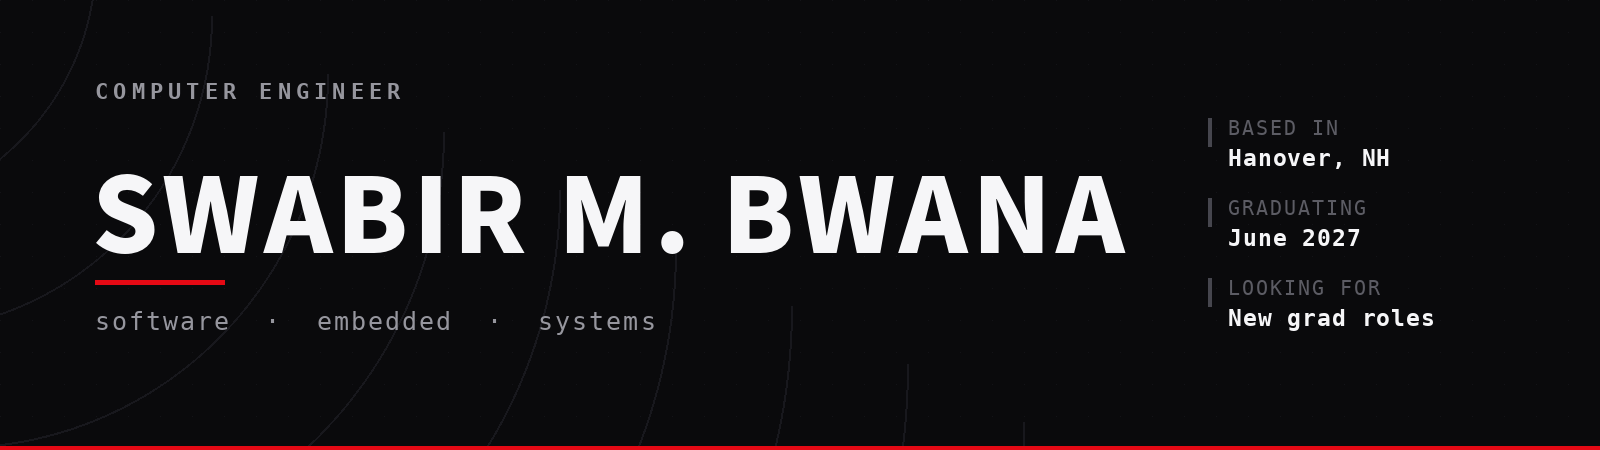
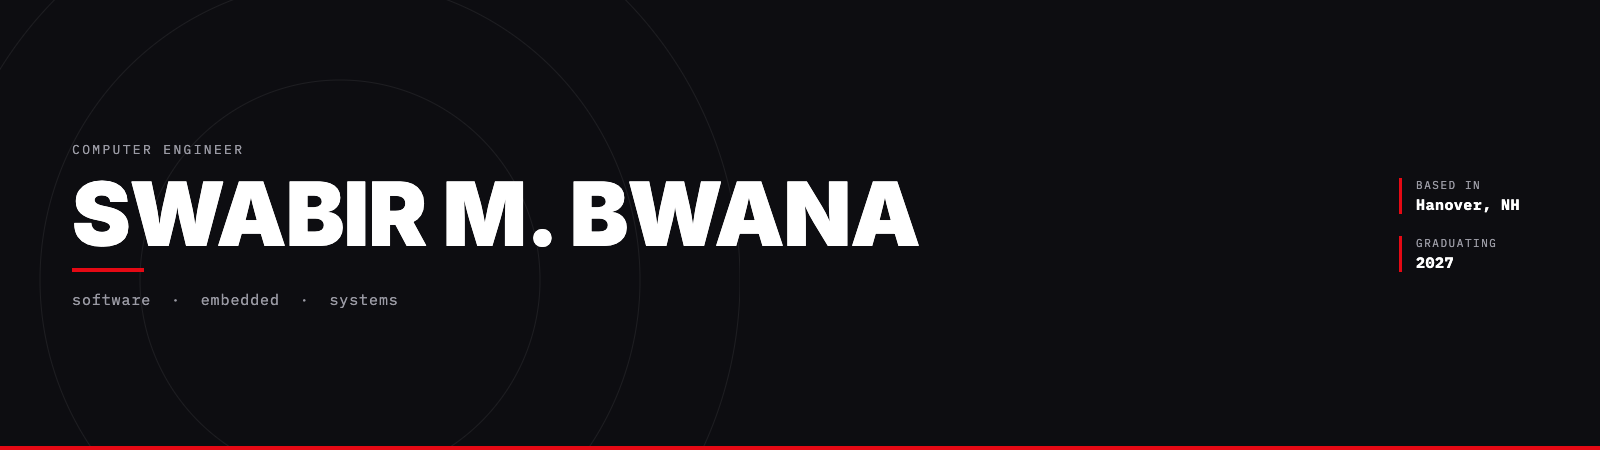
chore: update hero image and sync all repo links with portfolio
- hero.png: changed "June 2027" to "2027", removed "LOOKING FOR / New grad roles"
- SwipePlate: fix org from dartmouth-cs52-25S to Swabir001
- SwabFlix: add separate Street Food Atlas repo link
- FPGA accelerator: add W26-W9-LA repo link
- Bare-metal ARM/TinyML: add W26-W4-LA, W26-W7-LA, W26-W5-LA repo links

diff --git a/README.md b/README.md
@@ -27,7 +27,7 @@ Junior at Dartmouth, Engineering Sciences modified with Computer Science at the 
 
 <img src="https://raw.githubusercontent.com/Swabir001/Swabir001/main/assets/hdr-software.png" width="100%" alt="02 Software"/>
 
-### SwipePlate &nbsp;·&nbsp; campus food delivery &nbsp;·&nbsp; [repo](https://github.com/dartmouth-cs52/project-swipe-plate)
+### SwipePlate &nbsp;·&nbsp; campus food delivery &nbsp;·&nbsp; [repo](https://github.com/Swabir001/project-swipe-plate)
 
 Order from any of the four Dartmouth dining halls and have another student deliver it. I led a team of four from an empty repo to a deployed product in six weeks, and built both halves myself. It ran on the real campus dining API, not mock JSON.
 
@@ -106,7 +106,7 @@ Two backends on one foundation, aimed at different problems. Full CRUD for the b
 
 ---
 
-### SwabFlix and Street Food Atlas &nbsp;·&nbsp; frontend &nbsp;·&nbsp; [repo](https://github.com/Swabir001/swabflix)
+### SwabFlix and Street Food Atlas &nbsp;·&nbsp; frontend &nbsp;·&nbsp; [SwabFlix repo](https://github.com/Swabir001/swabflix) &nbsp;·&nbsp; [Street Food Atlas repo](https://github.com/Swabir001/StreetFoodAtlas_lab5-platform-api-Swabir001)
 
 SwabFlix is a streaming-style interface on live TMDB data: season and episode browsers, watch history, ranked rows, skeleton loading states, responsive down to phone width. Street Food Atlas is a CRUD recipe platform on React Router v7 data mode, where loaders prefetch per route and actions trigger revalidation after writes. Zustand holds client-only state, including an edit draft so cancelling never destroys the original record.
 
@@ -133,7 +133,7 @@ The real design work was the four-state machine and a 200-unit ADC deadzone, tun
 </tr>
 </table>
 
-### FPGA neural network accelerator &nbsp;·&nbsp; Vitis HLS to silicon
+### FPGA neural network accelerator &nbsp;·&nbsp; Vitis HLS to silicon &nbsp;·&nbsp; [repo](https://github.com/Swabir001/W26-W9-LA)
 
 <table>
 <tr>
@@ -150,7 +150,7 @@ Then I optimized and logged what happened: loop unrolling, `PIPELINE II=1`, AXI 
 </tr>
 </table>
 
-### Bare-metal ARM and TinyML on STM32
+### Bare-metal ARM and TinyML on STM32 &nbsp;·&nbsp; [bare-metal repo](https://github.com/Swabir001/W26-W4-LA) &nbsp;·&nbsp; [TinyML repo](https://github.com/Swabir001/W26-W7-LA) &nbsp;·&nbsp; [SPI/BTLE repo](https://github.com/Swabir001/W26-W5-LA)
 
 <table>
 <tr>
